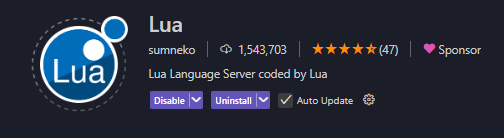
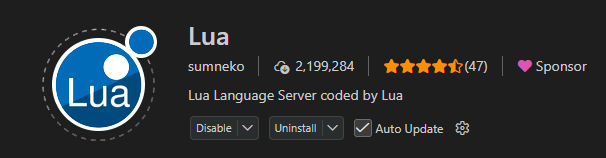
update README

diff --git a/README.md b/README.md
@@ -1,12 +1,22 @@
 # CC:Tweaked VSCode Workspace
- A typed workspace for CC:Tweaked ~~and Plethora~~.
+ A [LuaCATS](https://luals.github.io/wiki/annotations/) typed workspace for [`CC:Tweaked`](https://github.com/cc-tweaked/CC-Tweaked), as well as some integrations for [`Advanced Peripherals`](https://github.com/IntelligenceModding/AdvancedPeripherals), [`Create`](https://github.com/Creators-of-Create/Create), and [`Tom's Peripherals`](https://github.com/tom5454/Toms-Peripherals).
 
-## How To Use
+## How To Install
 You will need the [Lua Language Server VS Code extension by sumneko](https://marketplace.visualstudio.com/items?itemName=sumneko.lua) for this workspace to work.
 ![vscodeExtension](images/extension.png)
 
-Once you download the workspace you will need to go into the extension's settings and add the path into `workspace.library`.
+Once you download the workspace you will need to go into the extension's settings and add the path into `workspace.library`. Copy and pastable settings path for your leisure: `@ext:sumneko.lua workspace.Library`
+
 ![extensionSettings](images/settings.png)
 
-It is also recommended that you disable the built-in `io` and `os` globals.
+It is also recommended that you disable the built-in `io` and `os` globals that come with the extension, as `CC:Tweaked` adds it's own methods for these libraries. Copy and pastable settings path for your leisure: `@ext:sumneko.lua Builtin`
+
 ![disableSettings](images/builtin.png)
+
+### Type Annotations
+You can specify type annotations for things explicitly by using LuaCATS. This is especially useful when wrapping peripherals:
+```lua
+local monitor = peripheral.wrap("top") ---@type cc.peripheral.Monitor
+monitor.setTextScale(4)
+monitor.write("Hello world!")
+```